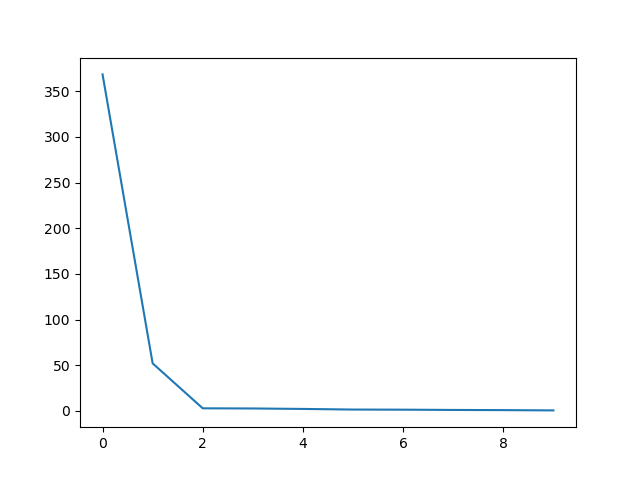
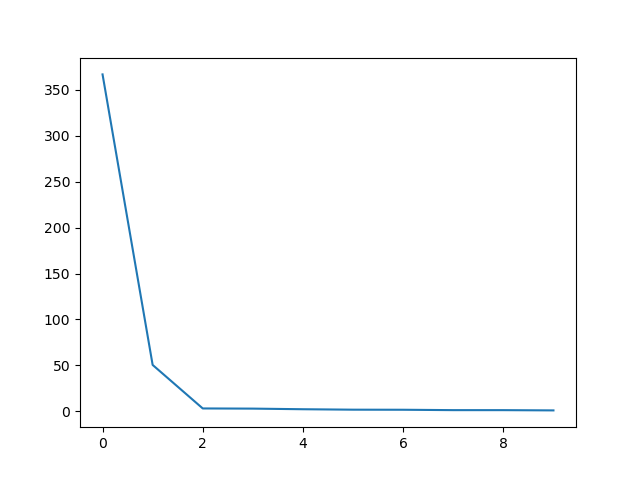
introduce bitarray bin vectors. update test script

diff --git a/bwmd/compressor.py b/bwmd/compressor.py
@@ -25,6 +25,7 @@ import numpy as np
 import sys
 import matplotlib.pyplot as plt
 from tqdm import tqdm
+from bitstring import BitArray
 # Silence warnings.
 tf.get_logger().setLevel('ERROR')
 
@@ -354,27 +355,28 @@ def reconstruction_loss(model, input_:'tf.Tensor')->'tf.Tensor':
             Loss evaluation as float cast
             as tf.Tensor.
     '''
+    # Compute standard reconstruction loss.
     reconstruction_loss = tf.reduce_mean(tf.square(tf.subtract(model(input_), input_)))
+    # Compute spearman correlation coefficient.
     spearman = spearman_correlation(pairwise_distance(input_), pairwise_distance(model(input_)))
-    # spearman = 1 - spearman
-
-    # TISSIER REGULARIZATION METHOD
-
-
-    # TODO: Experiment with adding loss because it is already subtracted.
+    # Convert spearman to similarity measure.
+    spearman = 1 - spearman
 
     for v in model.trainable_variables:
+        # Extract weights for encoder hidden layer.
         if v.name == 'auto_encoder/encoder/dense/kernel:0':
             w = v
             wt = tf.transpose(w)
-            i = tf.eye(w.numpy().shape[1]) # n*n identify matrix
+            # Get n*n identity matrix.
+            i = tf.eye(w.numpy().shape[1])
+            # Compute linear normalization.
             norm = tf.norm(tf.linalg.matmul(wt, w) - i)
-
+            # Regularization parameter lambda.
             lambda_reg = 4
+            # Compute regularization parameter l.
             l_reg = tf.square(norm) / 2
-
-            # loss = reconstruction_loss + lambda_reg * l_reg + lambda_reg * spearman
-            loss = reconstruction_loss + l_reg + spearman
+            # Compute final loss equation.
+            loss = reconstruction_loss + lambda_reg * (l_reg + spearman)
 
             return loss
 
@@ -587,13 +589,15 @@ class Compressor():
         vectors = self.prepare_vectors(vectors, self.batch_size, shuffle=False)
         # Iterate through batches, extracting only the encoded vectors.
         vectors_encoded = []
+        # Get compression for saving vectors.
+        compression = self.autoencoder.encoder.compression
         print('Encoding vectors ...')
         for step, batch in enumerate(vectors):
             code = self.autoencoder.encoder(batch, transform=True)
             vectors_encoded.append(code)
 
         if save:
-            save_vectors(export_path, words, vectors_encoded)
+            save_vectors(export_path, words, vectors_encoded, compression=compression)
 
         # Get size of encoded vector.
         size_encoded_vector = round(sys.getsizeof(vectors_encoded[0]) / self.batch_size * 8)
@@ -627,7 +631,7 @@ class Compressor():
         self.autoencoder.load_weights(path)
 
 
-def save_vectors(path:str, words:list, vectors_batched:np.array)->None:
+def save_vectors(path:str, words:list, vectors_batched:np.array, compression:str='int8')->None:
     '''
     Save compressed word vectors to file provided
     aligned corpus of words and their corresponding vectors.
@@ -654,9 +658,15 @@ def save_vectors(path:str, words:list, vectors_batched:np.array)->None:
     with open(path, 'w') as f:
         # Save vectors to new line with tab separating word and vector values.
         for word, vector in zip(words, vectors):
-            f.write(word + '\t')
-            f.write('\t'.join(str(num) for num in vector))
-            f.write('\n')
+            if compression == 'int8':
+                f.write(word + '\t')
+                f.write('\t'.join(str(num) for num in vector))
+                f.write('\n')
+            elif compression == 'bool_':
+                vector = vector.astype(int)
+                f.write(word + '\t')
+                f.write(''.join(str(num) for num in vector))
+                f.write('\n')
 
 
 def load_vectors(path, size:int=None,
@@ -702,17 +712,32 @@ def load_vectors(path, size:int=None,
         for i in tqdm(range(size)):
             try:
                 line = f.readline().split()
-                # Get only vectors; first item is the word itself.
+                # Get word.
+                word = line[0]
+
                 if expected_dtype == 'bool_':
-                    vector = np.array(line[1:]).reshape(1, -1)
-                    vector = vector == 'True'
-                    vector = vector.astype('bool_')
+                    bits = line[1]
+                    vector = BitArray(bin=bits)
+                    if len(bits) == expected_dimensions:
+                        vectors.append(vector)
+                        words.append(word)
+                        continue
+
+
+
+                # Get only vectors; first item is the word itself.
+                # if expected_dtype == 'bool_':
+                #     vector = np.array(line[1:]).reshape(1, -1)
+                #     vector = vector == 'True'
+                #     vector = vector.astype('bool_')
+
+
+
                 elif expected_dtype == 'int8':
                     vector = np.asarray(line[1:], dtype='int8').reshape(1, -1)
                 else:
                     vector = np.asarray(line[1:], dtype='float32').reshape(1, -1)
-                # Get word.
-                word = line[0]
+
                 # Error handling to prevent ragged array.
                 if vector.shape[1] == expected_dimensions:
                     vectors.append(vector)

diff --git a/test/test_compressor.py b/test/test_compressor.py
@@ -1,11 +1,9 @@
 import unittest
-from cwmd.compressor import Compressor, load_vectors
-from cwmd.distance import convert_vectors_to_dict
+from bwmd.compressor import Compressor, load_vectors
+from bwmd.distance import convert_vectors_to_dict
 import pandas as pd
 from scipy.spatial import distance
-# from sklearn.metrics import jaccard_score
 from scipy import stats
-import random
 
 
 REDUCED_DIMENSIONS = 256
@@ -48,6 +46,12 @@ class TestCase(unittest.TestCase):
         Test performance of compressed vectors on the
         semantic word similarity task cf. Tissier (2018).
         '''
+        def hamming_weight(a, b):
+            '''
+            Hamming weight for bitarray vectors.
+            '''
+            return (a^b).count(True)
+
         def score_vectors_on_similarity_task(datasets, vectors):
             '''
             Main function for scoring on similarity tasks.
@@ -62,7 +66,7 @@ class TestCase(unittest.TestCase):
                     testing both the original and compressed
                     versions
             '''
-            def calculate_word_similarity_score(data, vectors_dict):
+            def calculate_word_similarity_score(data, vectors_dict, dtype):
                 '''
                 Calculate the spearmen rank correlation
                 coefficient to evaluate the accuracy of vectors
@@ -77,30 +81,37 @@ class TestCase(unittest.TestCase):
                     vectors_dict : dict
                         Dictionary mapping words to numerical
                         vectors.
+                    dtype : str
+                        Data type of the vectors.
                 '''
                 human_similarities = []
-                hamming_similarities = []
+                hypothesized_similarities = []
                 for _, row in data.iterrows():
                     word1 = row['Word 1']
                     word2 = row['Word 2']
                     # Append the ground-truth similarities.
                     human_similarities.append(float(row['Similarity']))
-                    # Get hamming distance for binary vectors.
-                    hamming_distance = distance.hamming(vectors_dict[word1], vectors_dict[word2])
+                    if dtype == 'float32':
+                        # Cosine distance for float vevctors.
+                        hyp_distance = distance.cosine(vectors_dict[word1], vectors_dict[word2])
+                    elif dtype == 'bool_':
+                        # Bitarray hamming distance for bin vectors.
+                        hyp_distance = hamming_weight(vectors_dict[word1], vectors_dict[word2])
+
                     # Subtract from one to convert to similarity score.
-                    hamming_similarities.append(1 - hamming_distance)
+                    hypothesized_similarities.append(1 - hyp_distance)
 
                 # Calculate spearman score.
-                score,_ = stats.spearmanr(human_similarities, cosine_similarities)
+                score,_ = stats.spearmanr(human_similarities, hypothesized_similarities)
                 return score
 
             real_value = f'res\\{vectors}.txt'
             compressed = f'{real_value}c'
             # Evaluate both real and compressed vectors.
-            vectors_to_test = [real_value, compressed]
-            for vector_path in vectors_to_test:
+            vectors_to_test = [(real_value, 'float32'), (compressed, COMPRESSION)]
+            for vector_path, dtype in vectors_to_test:
                 # Load vectors from file.
-                vectors, words = load_vectors(vector_path, size=lines,
+                vectors, words = load_vectors(vector_path,
                                         get_words=True, expected_dimensions=REDUCED_DIMENSIONS,
                                         expected_dtype=COMPRESSION)
                 # Convert to dict for easier access.
@@ -108,12 +119,12 @@ class TestCase(unittest.TestCase):
                 for dataset in datasets:
                     # Load data as dataframe.
                     data = pd.read_csv(f'res\\datasets\\{dataset}.csv')
+                    # Print a summary of the testing method.
+                    print(f'Evaluating {vector_path} vectors of size {REDUCED_DIMENSIONS} and dtype {COMPRESSION}.')
                     # Calculate and print the score.
-                    score = calculate_word_similarity_score(data, vectors)
+                    score = calculate_word_similarity_score(data, vectors, dtype)
                     print('Spearman Correlation: ', str(round(score, 3)),
                                             f'({vector_path} + {dataset})')
-
-                # TODO: Save a summary for UX.
 
         datasets = ['simverb3500', 'wordsim353']
         for vectors in MODELS_TO_TEST:
